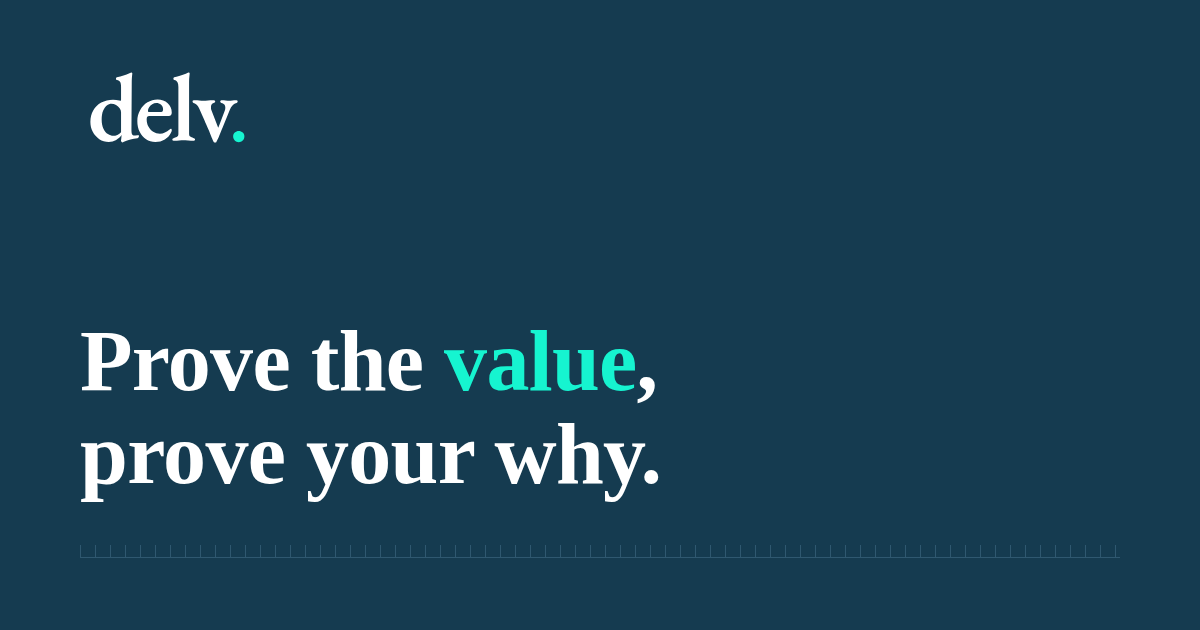
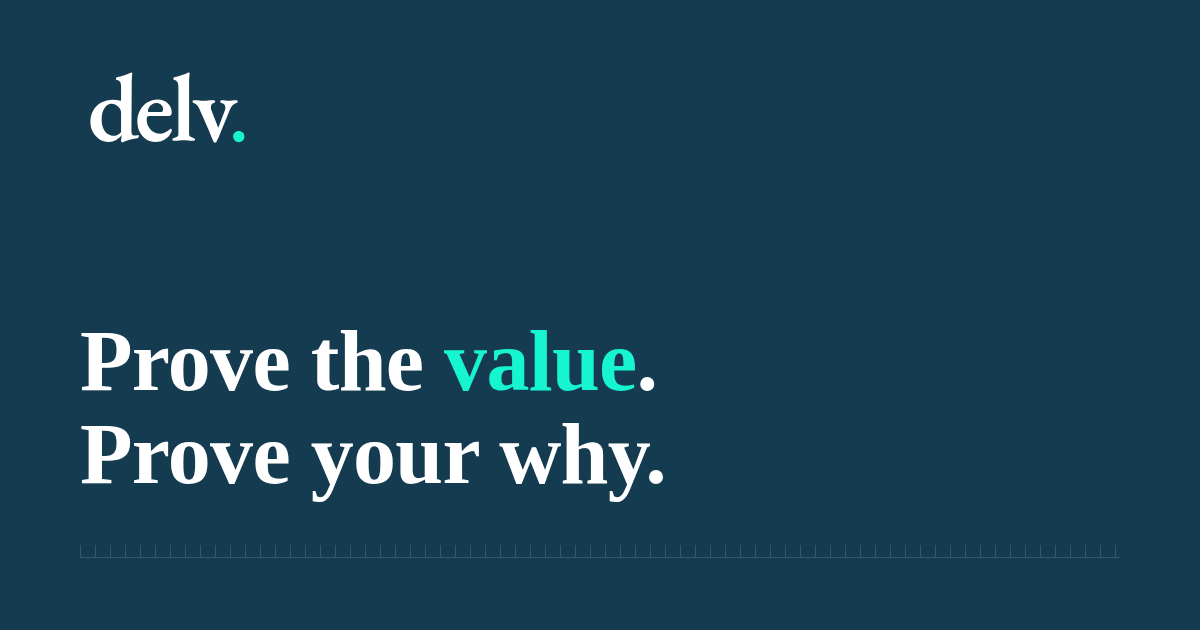
Apply Sam's four Tier 2 decisions
§2 The hero arithmetic now ties, and the after line is about consultation
minutes as asked.

  Before   15,000 consultations a week run through the platform.
  After    Two minutes back on each one: 500 clinician hours a week,
           at one trust.

Both lines are the same trust and the same week, and the caption shows
the working: 15,000 at two minutes each is 500 hours, exactly. The old
pair could not be reconciled on any basis, and the Before/After framing
invited the multiplication that exposed it. The sample proof entry keeps
its own figures, which were always self-consistent at 240 clinicians and
1.4 hours; its basis line now states the trust scope so nothing invites
cross-multiplying it against the hero.

§3.8.5 "Value Library" is lower case everywhere, as "a claims and
evidence library". A capitalised noun naming an artefact reads as
something you license. The engagement names stay capitalised, because
Value Audit, Value Model Build and Claims and Evidence Review are pieces
of work. Startups keeps the shorter "claims library", per the standing
instruction not to reopen that page.

§3.8.6 "One repository" is "One record", and the meta description and
the image brief follow. The image brief was a third instance the brief
did not list.

§3.1 The brand line is "Prove the value. Prove your why." across the h1,
the title, the footer strapline on every page and the OG card. The
headline's fit constant moved with it: the longest half changed from
[…]

Changed region(s): [[0.0617, 0.6635, 0.555, 0.8143], [0.5242, 0.6032, 0.555, 0.6333]]

diff --git a/src/data/enterprise.ts b/src/data/enterprise.ts
@@ -15,14 +15,15 @@ import type {
  * scale the problem is rarely a shortage of proof, it is four credible
  * versions of the same number with nobody empowered to choose between them.
  *
- * The Value Library is the headline deliverable here and a supporting one
- * elsewhere, which is why it gets a section of its own rather than a bullet.
+ * The claims and evidence library is the headline deliverable here and a
+ * supporting one elsewhere, which is why it gets a section of its own
+ * rather than a bullet.
  */
 
 export const meta: PageMeta = {
   title: 'Enterprise · delv.',
   description:
-    'How delv. helps multi-market healthtech companies hold one version of the number: a single claims repository, one methodology, and governance that keeps it true.',
+    'How delv. helps multi-market healthtech companies hold one version of the number: a single claims record, one methodology, and governance that keeps it true.',
   ogImage: '/og/enterprise.png',
 };
 
@@ -67,7 +68,7 @@ export const version = {
   pillars: [
     {
       step: 'One',
-      heading: 'One repository',
+      heading: 'One record',
       body: 'Every claim you make in market, in one place, versioned and sourced, with the evidence attached and an owner against it.',
     },
     {
@@ -86,7 +87,7 @@ export const version = {
 export const changes = {
   heading: 'What changes',
   details: [
-    'A Value Library holding every claim you make, versioned, sourced and owned',
+    'A claims and evidence library holding every claim you make, versioned, sourced and owned',
     'One ROI calculator, with the versions each market needs built from the same method',
     'A single value methodology your markets apply consistently',
     'Market-specific versions of the same argument, rebuilt around the payer and evidence bar in each',
@@ -99,7 +100,7 @@ export const changes = {
 
 export const changesImage: Figure = {
   label:
-    'A claims repository open on screen beside a printed bid response. Ordered, in use, mid-work.',
+    'The claims and evidence library open on screen beside a printed bid response. Ordered, in use, mid-work.',
   ratio: '3/2',
   caption:
     'Replace with a real anonymised artefact from a live engagement before launch.',
@@ -107,7 +108,7 @@ export const changesImage: Figure = {
 
 /** The centrepiece of this page, and a supporting deliverable on the other two. */
 export const library = {
-  heading: 'The Value Library',
+  heading: 'The claims and evidence library',
   paragraphs: [
     'One place holding every claim your business makes, with the evidence attached to it. Something maintained, with an owner against each entry, a review date, and rules about where each claim is allowed to go. A slide does none of that, and neither does a shared folder, or a document that leaves when the person who built it does.',
     'Most of what it prevents is invisible. A bid writer stops improvising, a new market stops inventing its own version, and legal stops finding out about a claim at the point it has already been published.',

diff --git a/src/data/home.ts b/src/data/home.ts
@@ -1,7 +1,7 @@
 import type { CtaBand, Figure, Hero, PageMeta, Pillar } from './types';
 
 export const meta: PageMeta = {
-  title: 'delv. · prove the value, prove your why.',
+  title: 'delv. · Prove the value. Prove your why.',
   description:
     'delv. helps healthtech companies define, measure and articulate value, so their claims stand up to procurement, investors and regulators.',
   ogImage: '/og/home.png',
@@ -13,8 +13,8 @@ export const hero: Hero = {
   // any size; this way the word carries the same colour at 8.39:1. Static, not
   // swept: the one animation on the site belongs to the claim demo below.
   heading:
-    '<span class="hl">Prove the <span class="mark">value</span>,</span>' +
-    '<span class="hl">prove your why.</span>',
+    '<span class="hl">Prove the <span class="mark">value</span>.</span>' +
+    '<span class="hl">Prove your why.</span>',
   sub: 'Your product works. The hard part is showing what it is worth. We help healthtech companies define, measure and articulate value, so the claims on your website survive a procurement review, a data room and a clinical safety officer.',
   actions: [
     { label: 'Start a conversation', href: '/contact' },
@@ -25,14 +25,14 @@ export const hero: Hero = {
 export const claim = {
   weak: {
     label: 'Before',
-    text: '4,000 clinicians use the platform every week.',
+    text: '15,000 consultations a week run through the platform.',
   },
   strong: {
     label: 'After',
-    text: '1.4 hours returned per clinician per week: releasing 92 working days a month, at one trust.',
+    text: 'Two minutes back on each one: 500 clinician hours a week, at one trust.',
   },
   caption:
-    'Illustrative. The first line is activity. The second is the one a finance director can put in a business case.',
+    'Illustrative, and both lines are the same trust and the same week: 15,000 consultations at two minutes each is 500 hours. The first is activity. The second is the one a finance director can put in a business case.',
 };
 
 export const what = {

diff --git a/src/styles/global.css b/src/styles/global.css
@@ -1229,16 +1229,22 @@ nav.main .nav-panel a[aria-current="page"] {
   max-width: 16ch;
 }
 /*
- * The home headline breaks after the comma or not at all.
+ * The home headline is two sentences, one per line, or nothing.
  *
  * Each half is its own nowrap block, so no half can ever wrap into a third
  * line. That on its own would overflow a narrow screen, so the font size is
  * also capped against the space actually available: the viewport less both
- * gutters, divided by the longest half's width-per-pixel-of-font-size
- * (6.45, measured). The 0.87 is headroom for the fallback face, which sets
- * this line about 17px wider at 320px: with 0.92 that left 6px of margin,
- * which is not margin. The cap only bites below about 344px; above that the
- * clamp wins and the scale is untouched.
+ * gutters, divided by the longest half's width-per-pixel-of-font-size.
+ *
+ * 6.24, remeasured 13 Sep 2026 when the line became "Prove the value. Prove
+ * your why." and the longest half changed from "prove your why." to "Prove
+ * your why." It was 6.45 against the old comma-joined halves, which is why
+ * this number is measured and not guessed.
+ *
+ * The 0.87 is headroom for the fallback face, which measures 6.666 against
+ * the real face's 6.24 and so sets this line about 17px wider at 320px: with
+ * 0.92 that leaves 5px of margin, which is not margin. The cap only bites
+ * below about 348px; above that the clamp wins and the scale is untouched.
  */
 .hero h1.h1-lockup .hl {
   display: block;
@@ -1247,7 +1253,7 @@ nav.main .nav-panel a[aria-current="page"] {
 .hero h1.h1-lockup {
   font-size: min(
     clamp(43px, 7.2vw, 83px),
-    calc((100vw - 2 * var(--gutter)) / 6.45 * 0.87)
+    calc((100vw - 2 * var(--gutter)) / 6.24 * 0.87)
   );
 }
 .hero .sub {

diff --git a/src/data/proof.ts b/src/data/proof.ts
@@ -77,13 +77,13 @@ const sampleResults: Result[] = [
     figure: '1.4 hours returned per clinician per week',
     client: 'Sample: a UK EPR vendor',
     what: 'A value model built from twelve months of deployment data at one trust, and the business case template that carried it into procurement.',
-    basis: 'Time-and-motion baseline, 240 clinicians, assumptions log published with the model.',
+    basis: 'Time-and-motion baseline across 240 clinicians at one trust, with the assumptions log published alongside the model.',
   },
   {
     id: 'sample-2',
     figure: 'Procurement cycle cut from nine months to five',
     client: 'Sample: a symptom assessment company',
-    what: 'One Value Library replacing four inconsistent decks, with sourcing and usage rules attached to every claim.',
+    what: 'One claims and evidence library replacing four inconsistent decks, with sourcing and usage rules attached to every claim.',
     basis: 'Median time from first meeting to signature, eleven trusts, before and after.',
   },
   {

diff --git a/src/data/what-we-do.ts b/src/data/what-we-do.ts
@@ -66,7 +66,7 @@ export const stages: Stage[] = [
       'One piece of evidence, built properly, has more than one job. The same finding becomes the value proposition your sales team leads with, the narrative in an investor update, an abstract or a conference poster, the numbers inside an ROI tool, a year of content, and the training that gets a new starter saying it correctly. You are not buying a report. You are buying the asset everything else is built from.',
     ],
     details: [
-      'A Value Library holding every claim you make: versioned, sourced and auditable, so any claim can be traced back on request',
+      'A claims and evidence library holding every claim you make: versioned, sourced and auditable, so any claim can be traced back on request',
       'ROI calculators, from sales-led walkthroughs to short web tools for lead generation',
       'Case studies, business case templates, white papers, briefings and speaker notes',
       'Investor and board materials that connect evidence to the commercial model',

diff --git a/src/data/scale-ups.ts b/src/data/scale-ups.ts
@@ -97,7 +97,7 @@ export const outcome = {
     'The baseline you should have captured at go-live, reconstructed as far as the data allows',
     'A second-market version of the same argument, rebuilt around that payer and budget holder',
     'An ROI calculator your sales team walks a prospect through, using that prospect&rsquo;s own numbers',
-    'A Value Library holding the claims you can now make and the sourcing behind each one',
+    'A claims and evidence library holding the claims you can now make and the sourcing behind each one',
     'A measurement plan so the next twelve months of deployments produce evidence by design',
   ],
   note: 'What we will not do: reconstruct a baseline the data cannot support, pick the comparator that flatters the result, or hand back a model only we know how to update. If the honest number is smaller than the one in your deck, you will hear it from us before a customer finds it.',

diff --git a/src/data/how-we-work.ts b/src/data/how-we-work.ts
@@ -96,7 +96,7 @@ export const next = {
     {
       heading: 'Project',
       meta: 'Fixed fee &middot; scoped deliverables',
-      body: 'A defined build: a Value Library, an ROI calculator or calculator estate, a business case pack, an investor evidence narrative.',
+      body: 'A defined build: a claims and evidence library, an ROI calculator or calculator estate, a business case pack, an investor evidence narrative.',
     },
     {
       heading: 'Embedded',

diff --git a/src/data/site.ts b/src/data/site.ts
@@ -67,7 +67,7 @@ export const site = {
   name: 'delv.',
   /** Used in <title> suffixes and the OG cards. */
   shortName: 'delv',
-  strapline: 'Prove the value, prove your why.',
+  strapline: 'Prove the value. Prove your why.',
   blurb:
     'Evidence of value for healthtech companies. We turn what your product does into proof of what it is worth.',
   /** PLACEHOLDER — address unconfirmed, see §13.4 of the brief. */

diff --git a/delv-build-brief.md b/delv-build-brief.md
@@ -112,7 +112,7 @@ Hash routing in the prototype was a demo constraint. Production uses real paths.
 
 | Path | Page | `<title>` |
 | --- | --- | --- |
-| `/` | Home | delv. · prove the value, prove your why. |
+| `/` | Home | delv. · Prove the value. Prove your why. |
 | `/what-we-do` | Approach (Define / Measure / Articulate) | What we do — delv. |
 | `/for-startups` | Startups | For startups — delv. |
 | `/scale-ups` | Scale-ups | Scale-ups · delv. |
@@ -333,6 +333,9 @@ All copy is final and lives in `reference/prototype.html`. Move it into `src/dat
 - Preserve typographic characters: `&rsquo;` for apostrophes, `&middot;` in meta strings.
 - **No em dashes anywhere.** Sam's instruction, 12 Sep 2026, and it overrides the prototype. Recast each one rather than swapping in a hyphen: a colon where it introduces a list or an elaboration, a comma where it is parenthetical, a full stop where the clauses stand alone. `&middot;` is the separator in page titles. The rendered site is checked for `\u2014` on every build.
 - Flag, don't fix: if you spot a typo or factual inconsistency, list it in the PR description rather than silently editing.
+- **The brand line is "Prove the value. Prove your why."** Settled 13 Sep 2026. Two sentences, not a comma splice, and it keeps "your". It sets the home `h1`, the home `<title>`, `site.strapline` in the footer of every page, and the home OG card, and the headline's measured fit constant moved with it (§5). The `.delv.` and comma-joined variants are dead.
+- **"Minutes, money and metrics do." is a deliberate refrain**, confirmed 13 Sep 2026, and appears on Home and on Startups on purpose. It is not a duplication to be varied. Leave it.
+- **The library is not a proper noun.** "Value Library" was capitalised as a product name; it is now "a claims and evidence library", lower case, everywhere. A capitalised noun naming an artefact reads as something you license, and delv. sells the work rather than the thing. The engagement names stay capitalised, because Value Audit, Value Model Build and Claims and Evidence Review are pieces of work. `/for-startups` keeps the shorter "claims library", which is the same artefact under a shorter descriptive name.
 - **Copy amends pass, 13 Sep 2026.** A site-wide pass against a separate amends brief, applied to `src/data/*.ts` only. It removed every QMS reference, took the software vocabulary out of the Enterprise deliverables (engine, variants, maintained system, "without a consultant"), and cut the site's most-repeated rhetorical move, the "X, not Y" contrastive negation, from 25 instances to 7. Copy is now materially ahead of `reference/prototype.html`: 34% of substantial strings still match it verbatim, and the two newest pages share none of it. **The prototype is no longer the copy source of truth**, only the design one, and §13.15 tracks the decision to retire it as a copy reference.
 
 Placeholders in the prototype that need replacing before launch — leave them in place and list them in the README:
@@ -391,7 +394,7 @@ alongside its copy: two founder portraits at 4:5 on Who we are plus a working
 shot, a procurement scene on Home, a value model artefact on What we do, the
 deliverables on Startups, a working session on How we work, and on the two new
 audience pages a value model beside a printed business case, a claims
-repository beside a bid response, and the Value Library in use.
+record beside a bid response, and the claims and evidence library in use.
 
 Setting `src` and `alt` on a slot turns it into the image, in the same space.
 
@@ -558,7 +561,7 @@ The entry offers are engagements. These two are what clients remember buying,
 and both are named on the pages so a reader can see there is something concrete
 at the end.
 
-**The Value Library.** One place holding every claim the business makes,
+**The claims and evidence library.** One place holding every claim the business makes,
 versioned and sourced, with the evidence attached, an owner against each entry,
 and usage rules saying where it can be used. Built to sit alongside a QMS.
 Offered on all three pages and sized very differently: a startup gets a working
@@ -578,7 +581,7 @@ this is the likeliest place for the pages to start repeating themselves.
 | --- | --- | --- |
 | Startups | Short public web tool | A modelled scenario with visible assumptions |
 | Scale-ups | Sales-led, walked through live | Your real deployment data |
-| Enterprise | A governed estate, one engine | The Value Library, with market variants |
+| Enterprise | One method across every market | The library, with a version per market |
 
 ### What changed on the pages that already existed
 
@@ -692,6 +695,9 @@ Three more on 13 Sep 2026, all of them specificity, all of them silent.
 None of the three would have shown up in a typecheck, a build or an axe run.
 The reduced-motion one was found by asserting the resting state in a browser,
 which is the only thing that does find them.
+
+**The worked example**
+- The home page's illustrative claim is the site's own evidenced claim, so its arithmetic has to survive a reader doing it. The two lines share a denominator and the caption shows the working: 15,000 consultations a week at two minutes each is 500 clinician hours a week, at one trust. Settled 13 Sep 2026, after the previous pair (4,000 clinicians platform-wide against 92 working days a month at one trust) turned out not to reconcile on any basis, and to invite exactly the multiplication that exposes it. If either figure changes, change both and re-check the caption.
 
 **Accessibility**
 - Keyboard-navigable end to end, with a visible focus ring on every interactive element: 2px `--ink`, 3px offset, and `--mark` on deep bands. This applies to form fields too. The prototype suppresses the outline on inputs in favour of a 28%-opacity pacific glow, which is 1.3:1 against the page and fails SC 1.4.11 — the ring is not optional there. Keep the glow if you like, underneath the ring.
